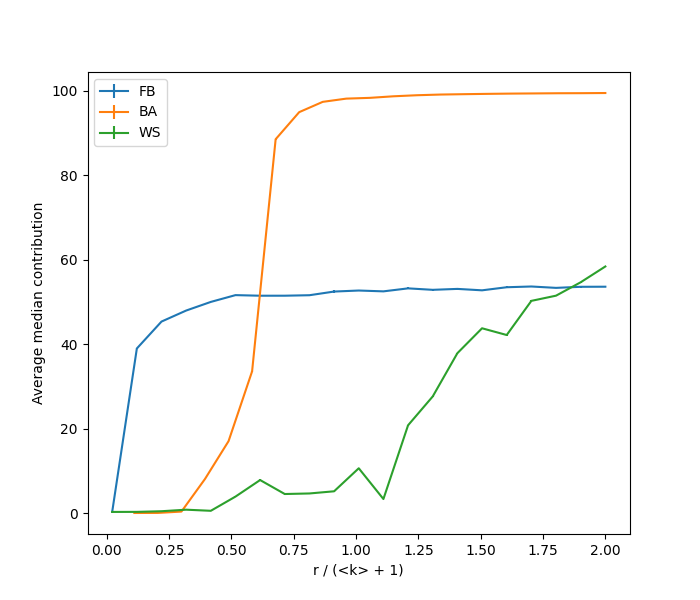
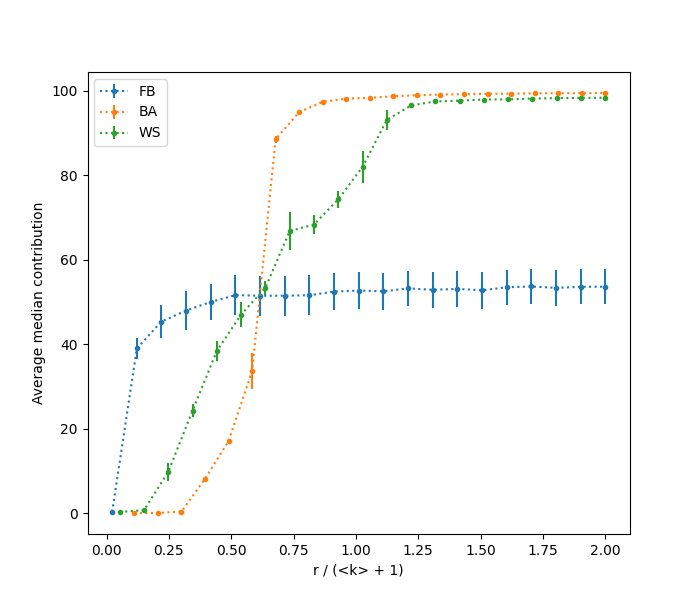
Final changes (hopefully)

diff --git a/P2_final_curves.py b/P2_final_curves.py
@@ -136,9 +136,13 @@ plt.ylabel('Average contribution')
 plt.xlabel('r / (<k> + 1)')
 plt.title(network)
 
+error_aux = np.std(avg_median_contribs, axis=0) / np.sqrt(avg_median_contribs.shape[0] - 1)
+error_aux = error_aux**2
 error = np.zeros(len(x))
-for i in range(n_inits):
-    error += avg_median_contribs_error[i, :]**2
-error = np.sqrt(error / n_inits)
+for i in range(avg_median_contribs_error.shape[0]):
+    error += avg_median_contribs_error[i, :] ** 2
+error = error / avg_median_contribs_error.shape[0]**2
+error += error_aux
+error = np.sqrt(error)
 plt.errorbar(x, y, error)
 plt.show()
